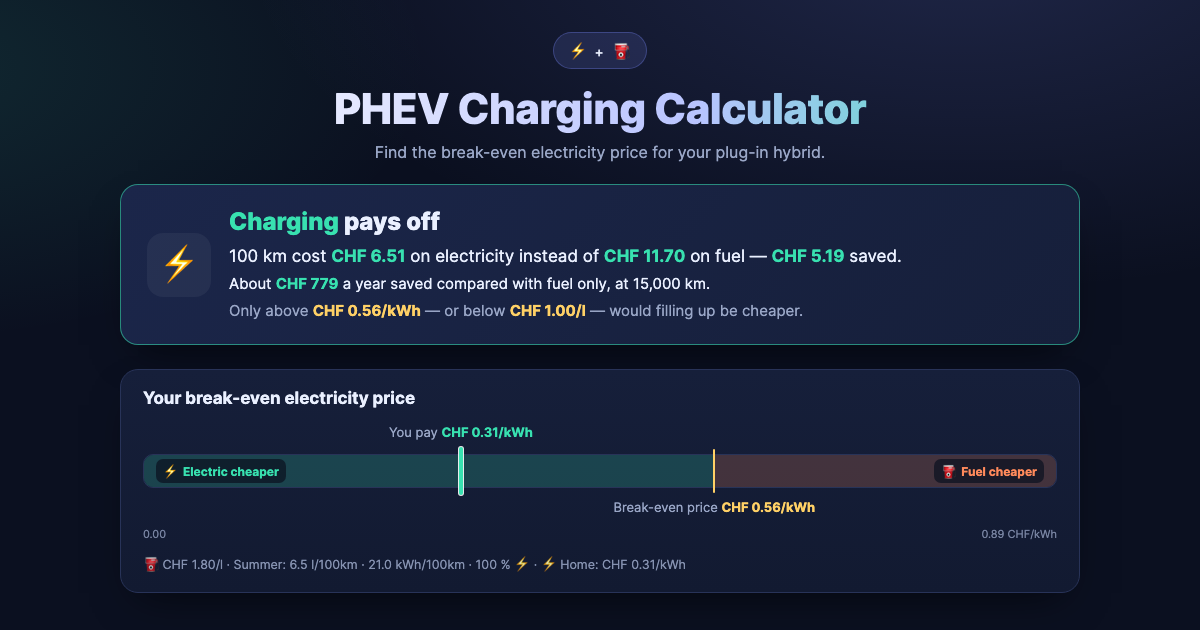
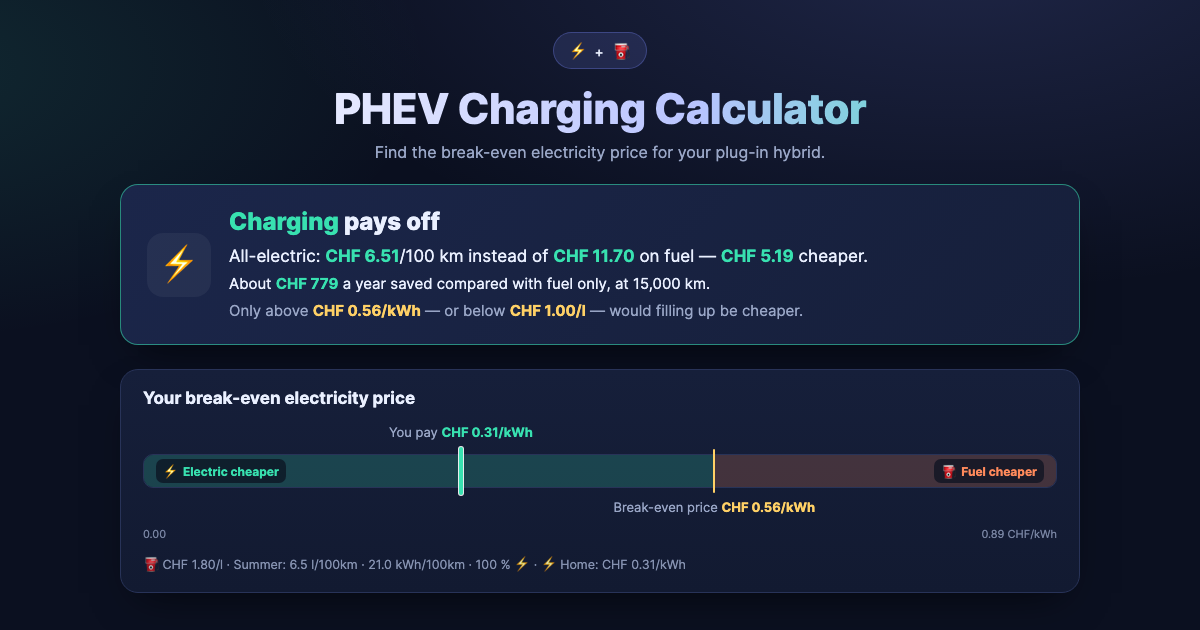
Update: verdict sentence leads with all-electric per 100 km, 'cheaper' instead of 'saved'; preview images regenerated

Changed region(s): [[0.185, 0.3921, 0.7708, 0.4222]]

diff --git a/app/static/js/app.js b/app/static/js/app.js
@@ -73,9 +73,9 @@ const I18N = {
     verdict_elec: '<span class="accent-elec">Charging</span> pays off',
     verdict_fuel: '<span class="accent-fuel">Filling up</span> pays off',
     verdict_tie: "It's a tie",
-    sent_elec: "100 km cost <b>{ce}</b> on electricity instead of <b>{cf}</b> on fuel — <b>{save}</b> saved.",
-    sent_fuel: "100 km cost <b>{cf}</b> on fuel instead of <b>{ce}</b> on electricity — <b>{save}</b> saved.",
-    sent_tie: "100 km cost <b>{ce}</b> either way.",
+    sent_elec: "All-electric: <b>{ce}</b>/100&nbsp;km instead of <b>{cf}</b> on fuel — <b>{save}</b> cheaper.",
+    sent_fuel: "On fuel: <b>{cf}</b>/100&nbsp;km instead of <b>{ce}</b> all-electric — <b>{save}</b> cheaper.",
+    sent_tie: "<b>{ce}</b>/100&nbsp;km — all-electric and on fuel alike.",
     // Money at the scenario's electric share: what is actually paid and what a
     // year of it comes to. Replaces the plain yearly line.
     blend_save: "At <b>{share} %</b> electric km, 100 km cost <b>{blend}</b> — about <b>{amount}</b> a year saved compared with fuel only, at {km}&nbsp;km.",
@@ -145,9 +145,9 @@ const I18N = {
     verdict_elec: '<span class="accent-elec">Laden</span> lohnt sich',
     verdict_fuel: '<span class="accent-fuel">Tanken</span> lohnt sich',
     verdict_tie: "Unentschieden",
-    sent_elec: "100 km kosten mit Strom <b>{ce}</b> statt <b>{cf}</b> mit Benzin — <b>{save}</b> gespart.",
-    sent_fuel: "100 km kosten mit Benzin <b>{cf}</b> statt <b>{ce}</b> mit Strom — <b>{save}</b> gespart.",
-    sent_tie: "100 km kosten so oder so <b>{ce}</b>.",
+    sent_elec: "Rein elektrisch: <b>{ce}</b>/100&nbsp;km statt <b>{cf}</b> mit Benzin — <b>{save}</b> günstiger.",
+    sent_fuel: "Mit Benzin: <b>{cf}</b>/100&nbsp;km statt <b>{ce}</b> rein elektrisch — <b>{save}</b> günstiger.",
+    sent_tie: "<b>{ce}</b>/100&nbsp;km — rein elektrisch wie mit Benzin.",
     // Geld beim Stromanteil des Szenarios: was tatsächlich bezahlt wird und
     // was ein Jahr davon ausmacht. Ersetzt die reine Jahreszeile.
     blend_save: "Bei <b>{share} %</b> der km im EV-Modus kosten 100 km <b>{blend}</b> — rund <b>{amount}</b> pro Jahr gespart gegenüber Benzin bei {km}&nbsp;km.",

diff --git a/.claude-status.md b/.claude-status.md
@@ -2,13 +2,14 @@
 
 ## STATE
 Goal:     App vor Vorstellung im Lexus-Board polieren (viel Lob, wenig Kritik)
-Now:      DE «Kipp-» → «Break-even-», OG-Bilder neu, gepusht | blocked on: Rolfs OK zum neuen ersten Satz («Rein elektrisch: …»)
-Next:     nach OK Satz umsetzen + OG-Bilder neu; dann Rolf: `dco`, Link-Vorschau testen, posten; offen: AGENTS.md
+Now:      erster Satz «Rein elektrisch: … günstiger» (de/en, 3 Fälle), OG-Bilder neu, gepusht | wartet auf Rolfs `dco`
+Next:     Rolf: `dco`, Link-Vorschau testen, im Lexus-Board posten; offen: AGENTS.md klären
 Touched:  app/static/js/app.js · styles.css · templates/index.html · main.py · static/og-de.png, og-en.png · tests/test_page.py · CLAUDE.md
 Verified: pytest 23 grün; Chromium 37/37 nach Paket B, 0 pageerror; Urteilskarte Handy 7 Zeilen, Fussnote nur im Balken
 Verified: Benzinpreis-Karte ohne Unterzeile: de/en × Handy/Desktop, Icon und Titel mittig, 0 pageerror; OG-Bilder zeigen die Karte nicht
 Verified: Textpaket + EV-Modus: 0 pageerror, kein Overflow, Hinweis 1 Zeile, Kontrast 6.51/7.87; Jahreszeile Handy DE bei 50 % = 3 Zeilen
 Verified: kein «Kipp» mehr im Seitentext/Meta (de), og-de/og-en 1200×630 neu, 0 pageerror
+Verified: neuer Satz Laden/Tanken/Unentschieden × de/en: Handy 2 Zeilen, Desktop 1, 0 pageerror, kein Overflow
 Verified: Jahresbetrag Satz = Fünfer-Zeile (126 Preiskombinationen); Default 779/779
 Verified: leer/0/negativ → Hinweis + aria-invalid, Balken leer; kWh-Preis 0 gültig
 Verified: Gast-Werte überleben Reload, Reset löscht; Owner-Login löscht Gast-Kopie
@@ -20,8 +21,6 @@ Link:     fürs Forum https://phev.xolution.ch/?lang=de (optional &cur=eur)
 Regel:    automatisch committen + pushen (Rolf, 15.08.2026)
 
 ## LOG
-- 2026-11-15 A3 Chart-Labels OK — 4 Fälle × Handy/Desktop, nichts liegt auf der Linie
-- 2026-11-15 A4 Meta/OG OK — 5 neue Tests, Vorschaubilder de/en
 - 2026-11-15 A5 Gast-Werte OK — localStorage.guestValues, Reset-Link
 - 2026-11-15 CHF/EUR-Schalter OK — nur Beschriftung, ?cur=eur, Sprache folgt Browser/?lang
 - 2026-11-15 Deploy 4c5485b — Rolf: dco gemacht (SHA nicht bestätigt)
@@ -34,3 +33,4 @@ Regel:    automatisch committen + pushen (Rolf, 15.08.2026)
 - 2026-11-15 Textpaket OK — pytest 23, Chromium 7 Ansichten fehlerfrei, kein Seiten-Overflow
 - 2026-11-15 EV-Modus-Wording OK — pytest 23, Handy 3 Zeilen (vorher 4), Desktop 2
 - 2026-11-15 Kipp → Break-even OK — pytest 23, Seitentext ohne «Kipp», OG-Bilder neu
+- 2026-11-15 Satz «Rein elektrisch» OK — pytest 23, 12 Fälle Chromium fehlerfrei, OG neu
